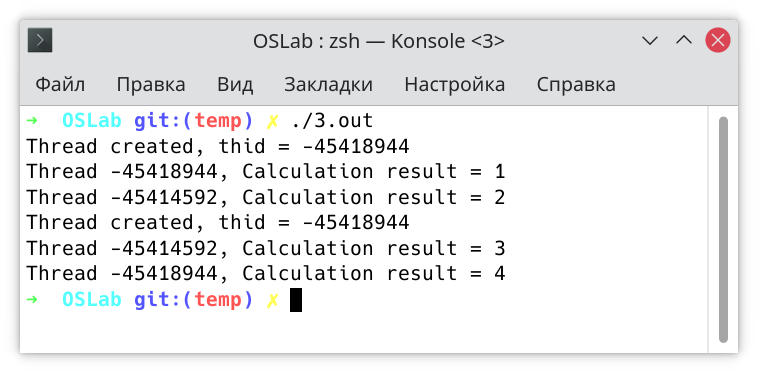
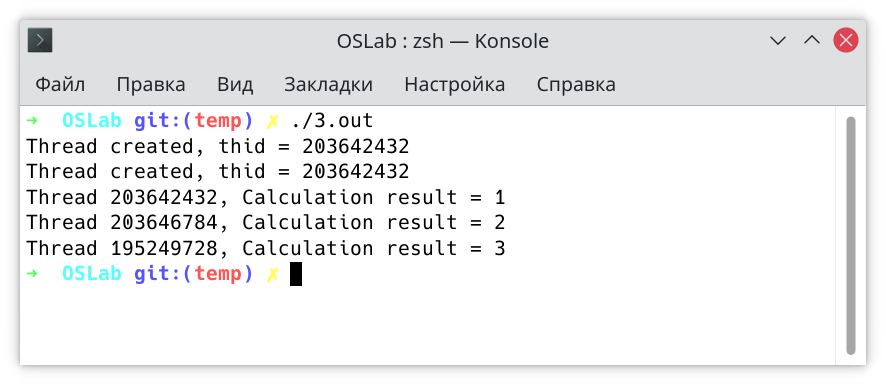
fix

diff --git a/3.c b/3.c
@@ -86,6 +86,8 @@ int main()
 В случае удачи в переменную thid занесется идентификатор нового thread'а. Если возникнет ошибка - прекратим работу.
 */
 
+
+
     result = pthread_create(&thid, (pthread_attr_t *)NULL, mythread, NULL);
 
     if (result != 0)
@@ -95,6 +97,16 @@ int main()
     }
 
     printf("Thread created, thid = %d\n", thid);
+
+    if (result != 0)
+    {
+        printf("Error on thread create, return value = %d\n", result);
+        exit(-1);
+    }
+
+    printf("Thread created, thid = %d\n", thid);
+
+    result = pthread_create(&thid, (pthread_attr_t *)NULL, mythread, NULL);
 
     /*
 Запрашиваем идентификатор главного thread'а
@@ -114,8 +126,6 @@ int main()
 */
 
     pthread_join(thid, (void **)NULL);
-
-    personal_thread();
 
     return 0;
 }
